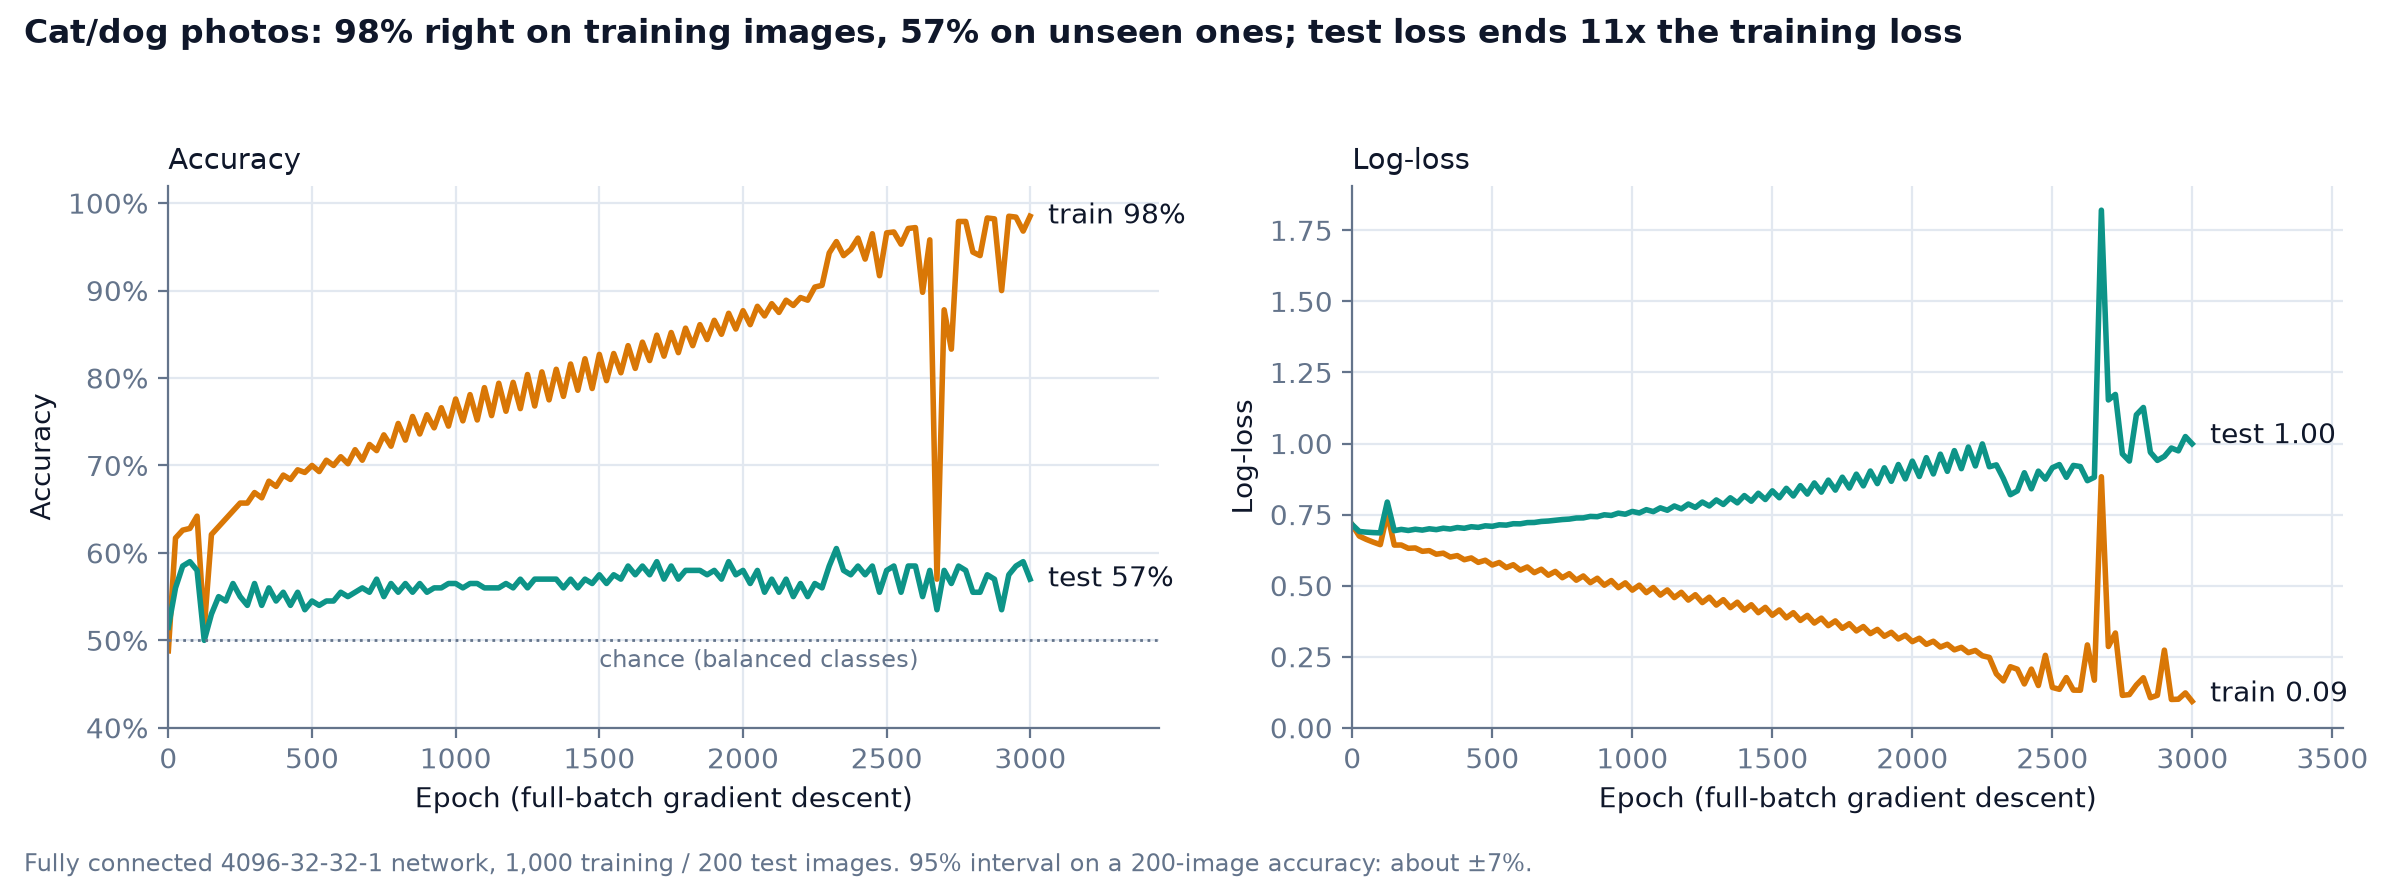
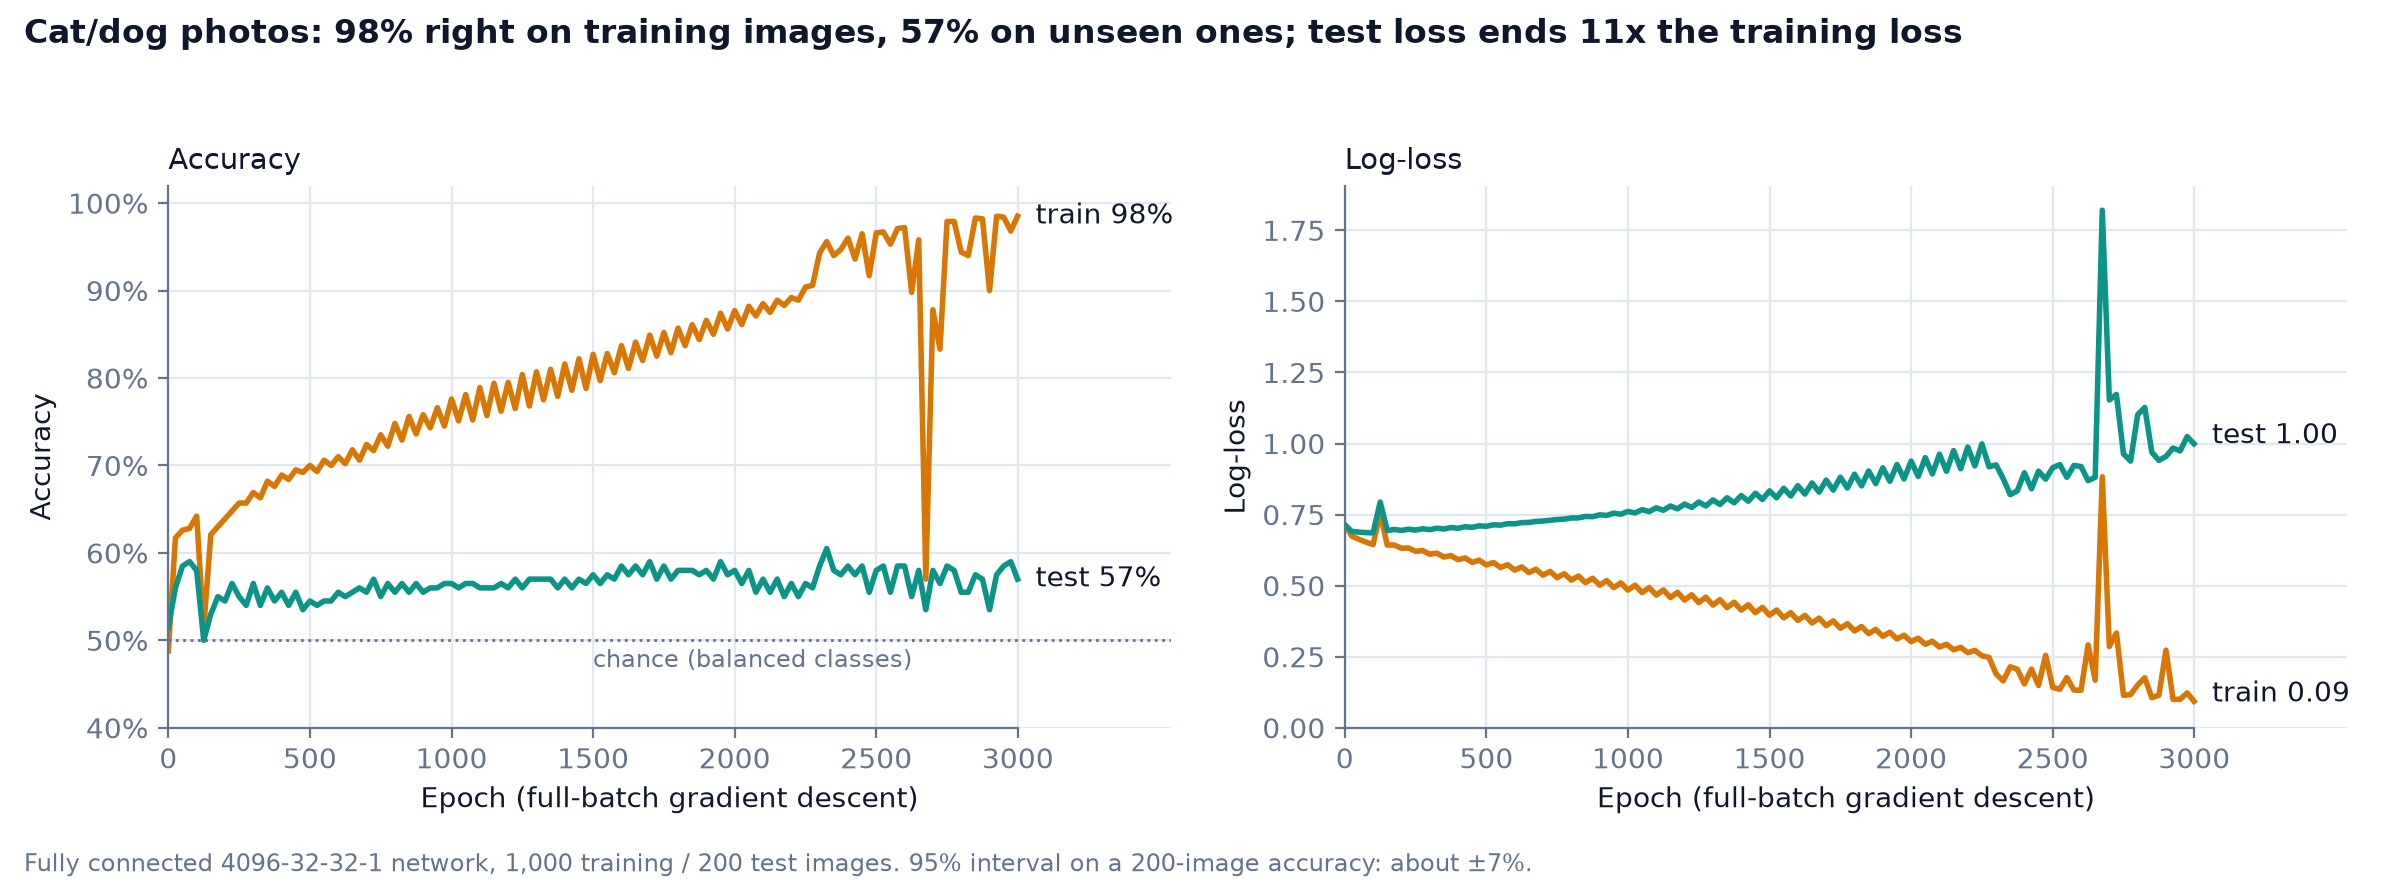
figures: one epoch range on both cat/dog panels, sweep axis ends past the largest model

diff --git a/scripts/make_figures.py b/scripts/make_figures.py
@@ -163,9 +163,9 @@ def hero_figure(data, results: dict) -> None:
     fig.text(
         0.01,
         0.01,
-        "Two interleaved spirals, 700 training / 300 test points (shown). NumPy networks "
-        f"from src/deep_network.py, {SPIRAL_EPOCHS:,} full-batch epochs, learning rate "
-        f"{SPIRAL_LR}.",
+        "Two interleaved spirals, 700 training / 300 test points (shown). One run per panel "
+        f"(seed 0; 5-seed means in the README table), {SPIRAL_EPOCHS:,} full-batch epochs, "
+        f"learning rate {SPIRAL_LR}.",
         fontsize=8.5,
         color=SLATE,
     )
@@ -220,13 +220,18 @@ def capacity_sweep(data, results: dict) -> None:
             elinewidth=1,
         )
         # The deep family ends among the open 20,000-epoch markers, so its label sits
-        # under its second point, where it cannot be read as theirs.
-        anchor, offset = (1, (8, -16)) if color == TEAL else (-1, (8, -14))
+        # under its second point, where it cannot be read as theirs; the wide family is
+        # labelled under its first point, in the empty lower left.
+        if color == TEAL:
+            anchor, offset, text = 1, (8, -10), family.replace(" of 16", "\nof 16")
+        else:
+            anchor, offset, text = 0, (-4, -14), family
         ax.annotate(
-            family,
+            text,
             (p[anchor], mean[anchor]),
             xytext=offset,
             textcoords="offset points",
+            va="top",
             color=INK,
             fontsize=9,
         )
@@ -258,7 +263,7 @@ def capacity_sweep(data, results: dict) -> None:
     ax.set_xlabel("Trainable parameters (log scale)")
     ax.set_ylabel("Held-out accuracy (mean, min-max over 5 seeds)")
     ax.yaxis.set_major_formatter(mticker.PercentFormatter(1.0, decimals=0))
-    ax.set_xlim(right=ax.get_xlim()[1] * 6)
+    ax.set_xlim(right=max(r["parameters"] for r in long_runs) * 1.3)
     ax.axhline(0.5, color=SLATE, linewidth=1, linestyle=":")
     ax.text(ax.get_xlim()[0] * 1.1, 0.51, "chance", color=SLATE, fontsize=8.5)
     best_wide = max(sweep[wide_label], key=lambda r: r["test_accuracy_mean"])
@@ -321,7 +326,6 @@ def cats_dogs(results: dict) -> None:
     ax.text(epochs[-1], final_train, f"  train {final_train:.0%}", color=INK, va="center")
     ax.text(epochs[-1], final_test, f"  test {final_test:.0%}", color=INK, va="center")
     ax.text(epochs[-1] / 2, 0.49, "chance (balanced classes)", color=SLATE, fontsize=8.5, va="top")
-    ax.set_xlim(0, epochs[-1] * 1.15)
     ax.set_ylim(0.4, 1.02)
     ax.yaxis.set_major_formatter(mticker.PercentFormatter(1.0, decimals=0))
     ax.set_xlabel("Epoch (full-batch gradient descent)")
@@ -332,8 +336,12 @@ def cats_dogs(results: dict) -> None:
     ax_loss.plot(epochs, run.val_loss, color=TEAL, linewidth=2)
     ax_loss.text(epochs[-1], final_train_loss, f"  train {final_train_loss:.2f}", color=INK)
     ax_loss.text(epochs[-1], final_test_loss, f"  test {final_test_loss:.2f}", color=INK)
-    ax_loss.set_xlim(0, epochs[-1] * 1.18)
     ax_loss.set_ylim(bottom=0)
+    # Same epoch range on both panels; the room past the last epoch holds the end labels.
+    for a in (ax, ax_loss):
+        a.set_xlim(0, IMAGE_EPOCHS * 1.18)
+        a.set_xticks(range(0, IMAGE_EPOCHS + 1, 500))
+        a.spines["bottom"].set_bounds(0, IMAGE_EPOCHS)
     ax_loss.set_xlabel("Epoch (full-batch gradient descent)")
     ax_loss.set_ylabel("Log-loss")
     ax_loss.set_title("Log-loss", loc="left", fontsize=10.5)
